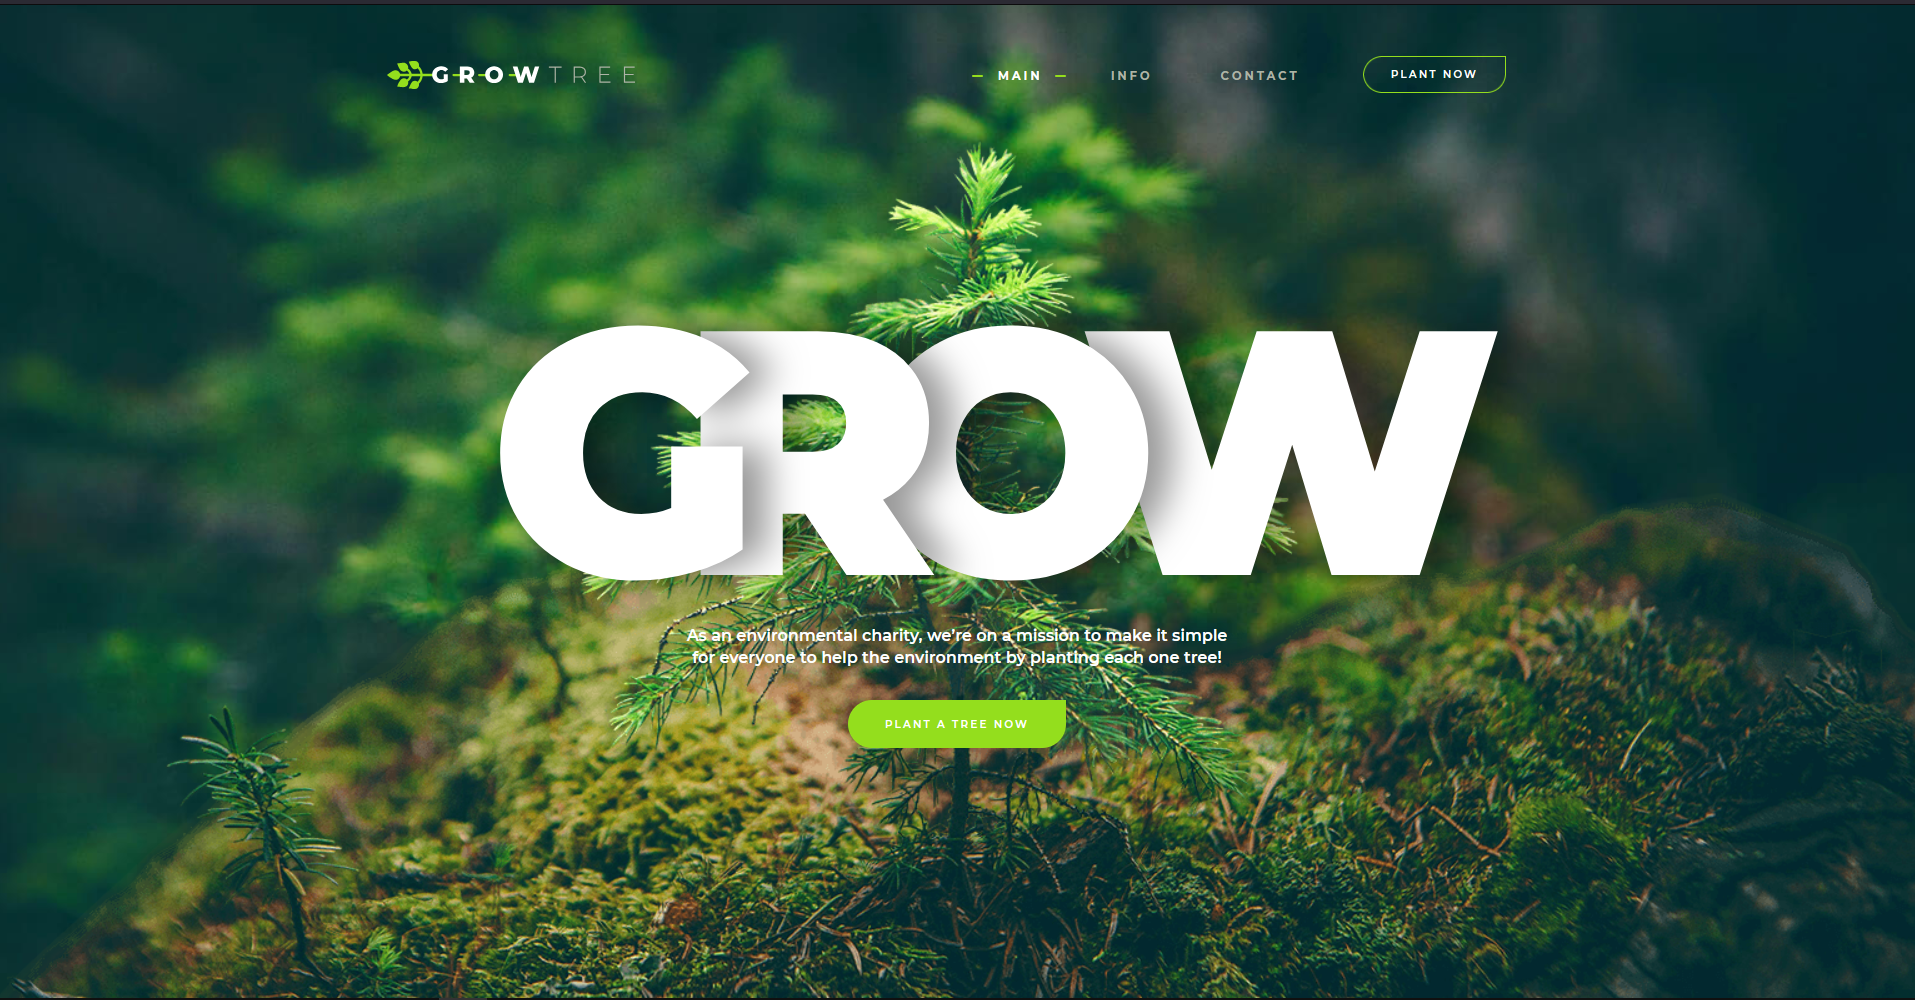
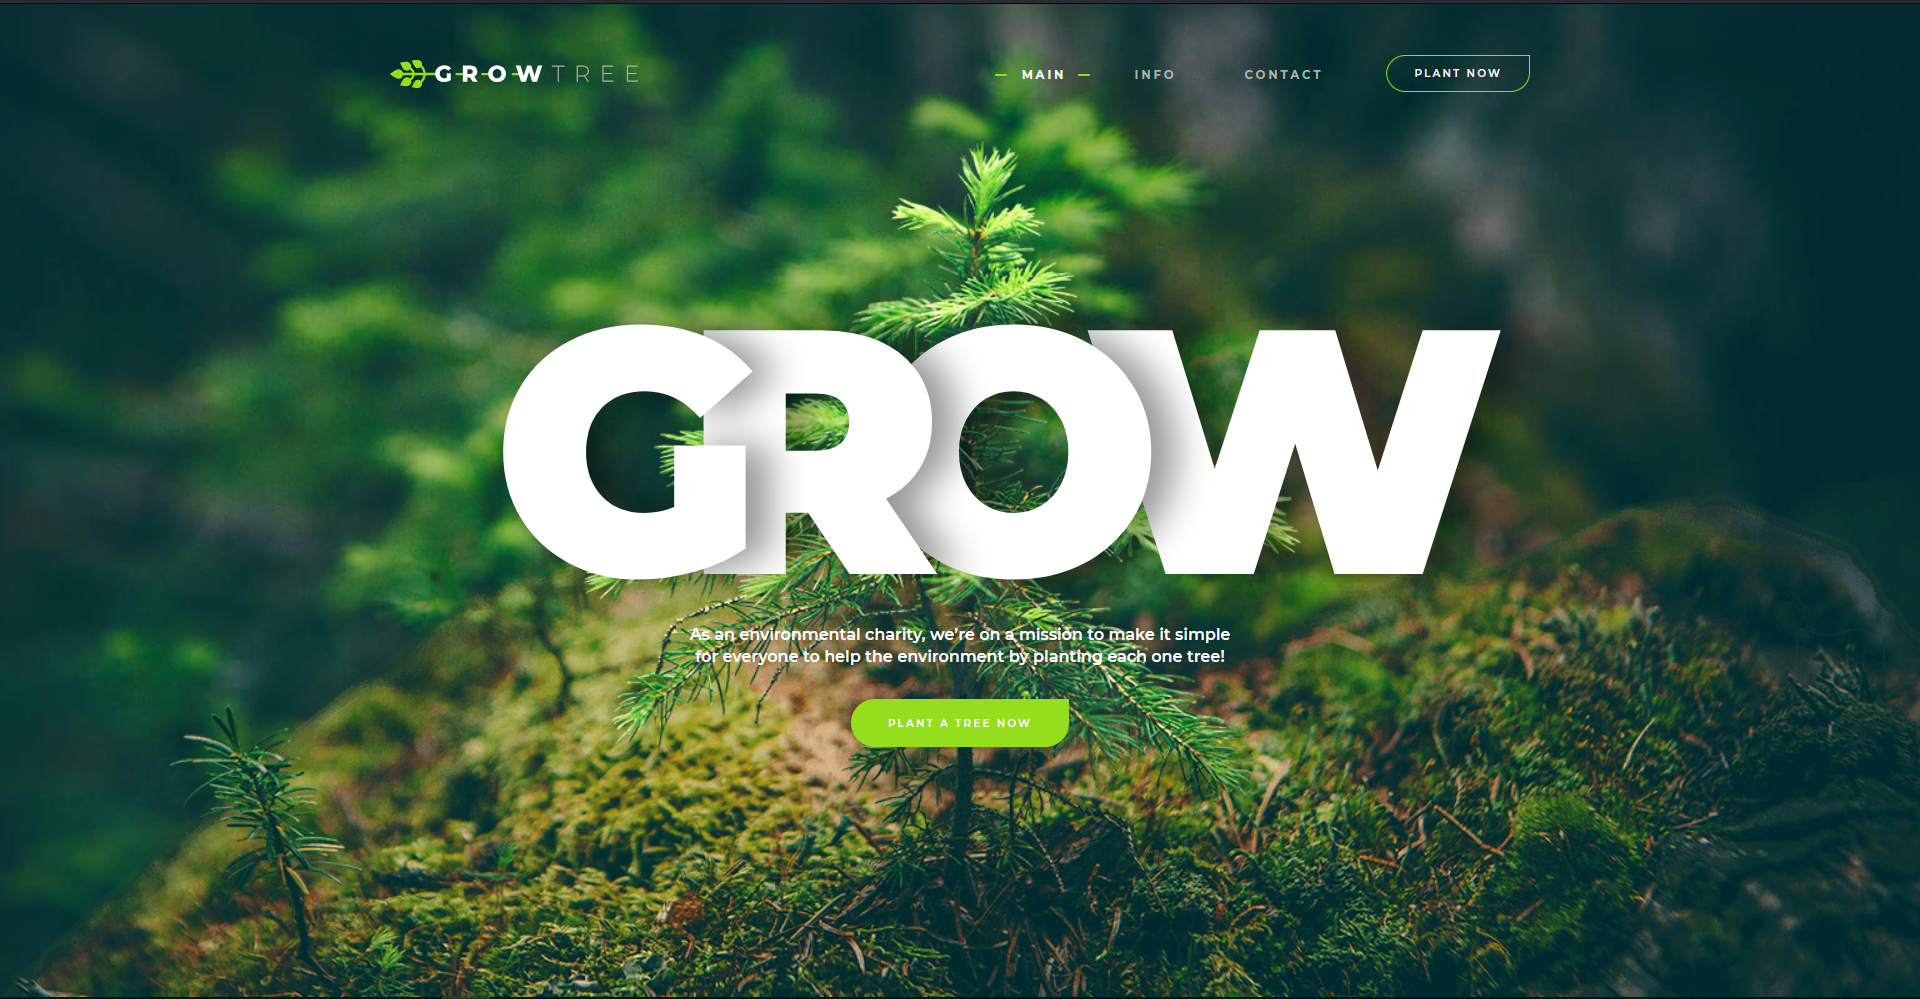
fixed: change margin in button--header

diff --git a/css/main.css b/css/main.css
@@ -155,7 +155,7 @@ body {
 .button--header {
 	background-color: transparent;
 	border-color: var(--green-color);
-	margin: 0 2em 0 3em;
+	margin: 0 0 0 3em;
 	transition: 0.3s ease-in-out;
 }
 
